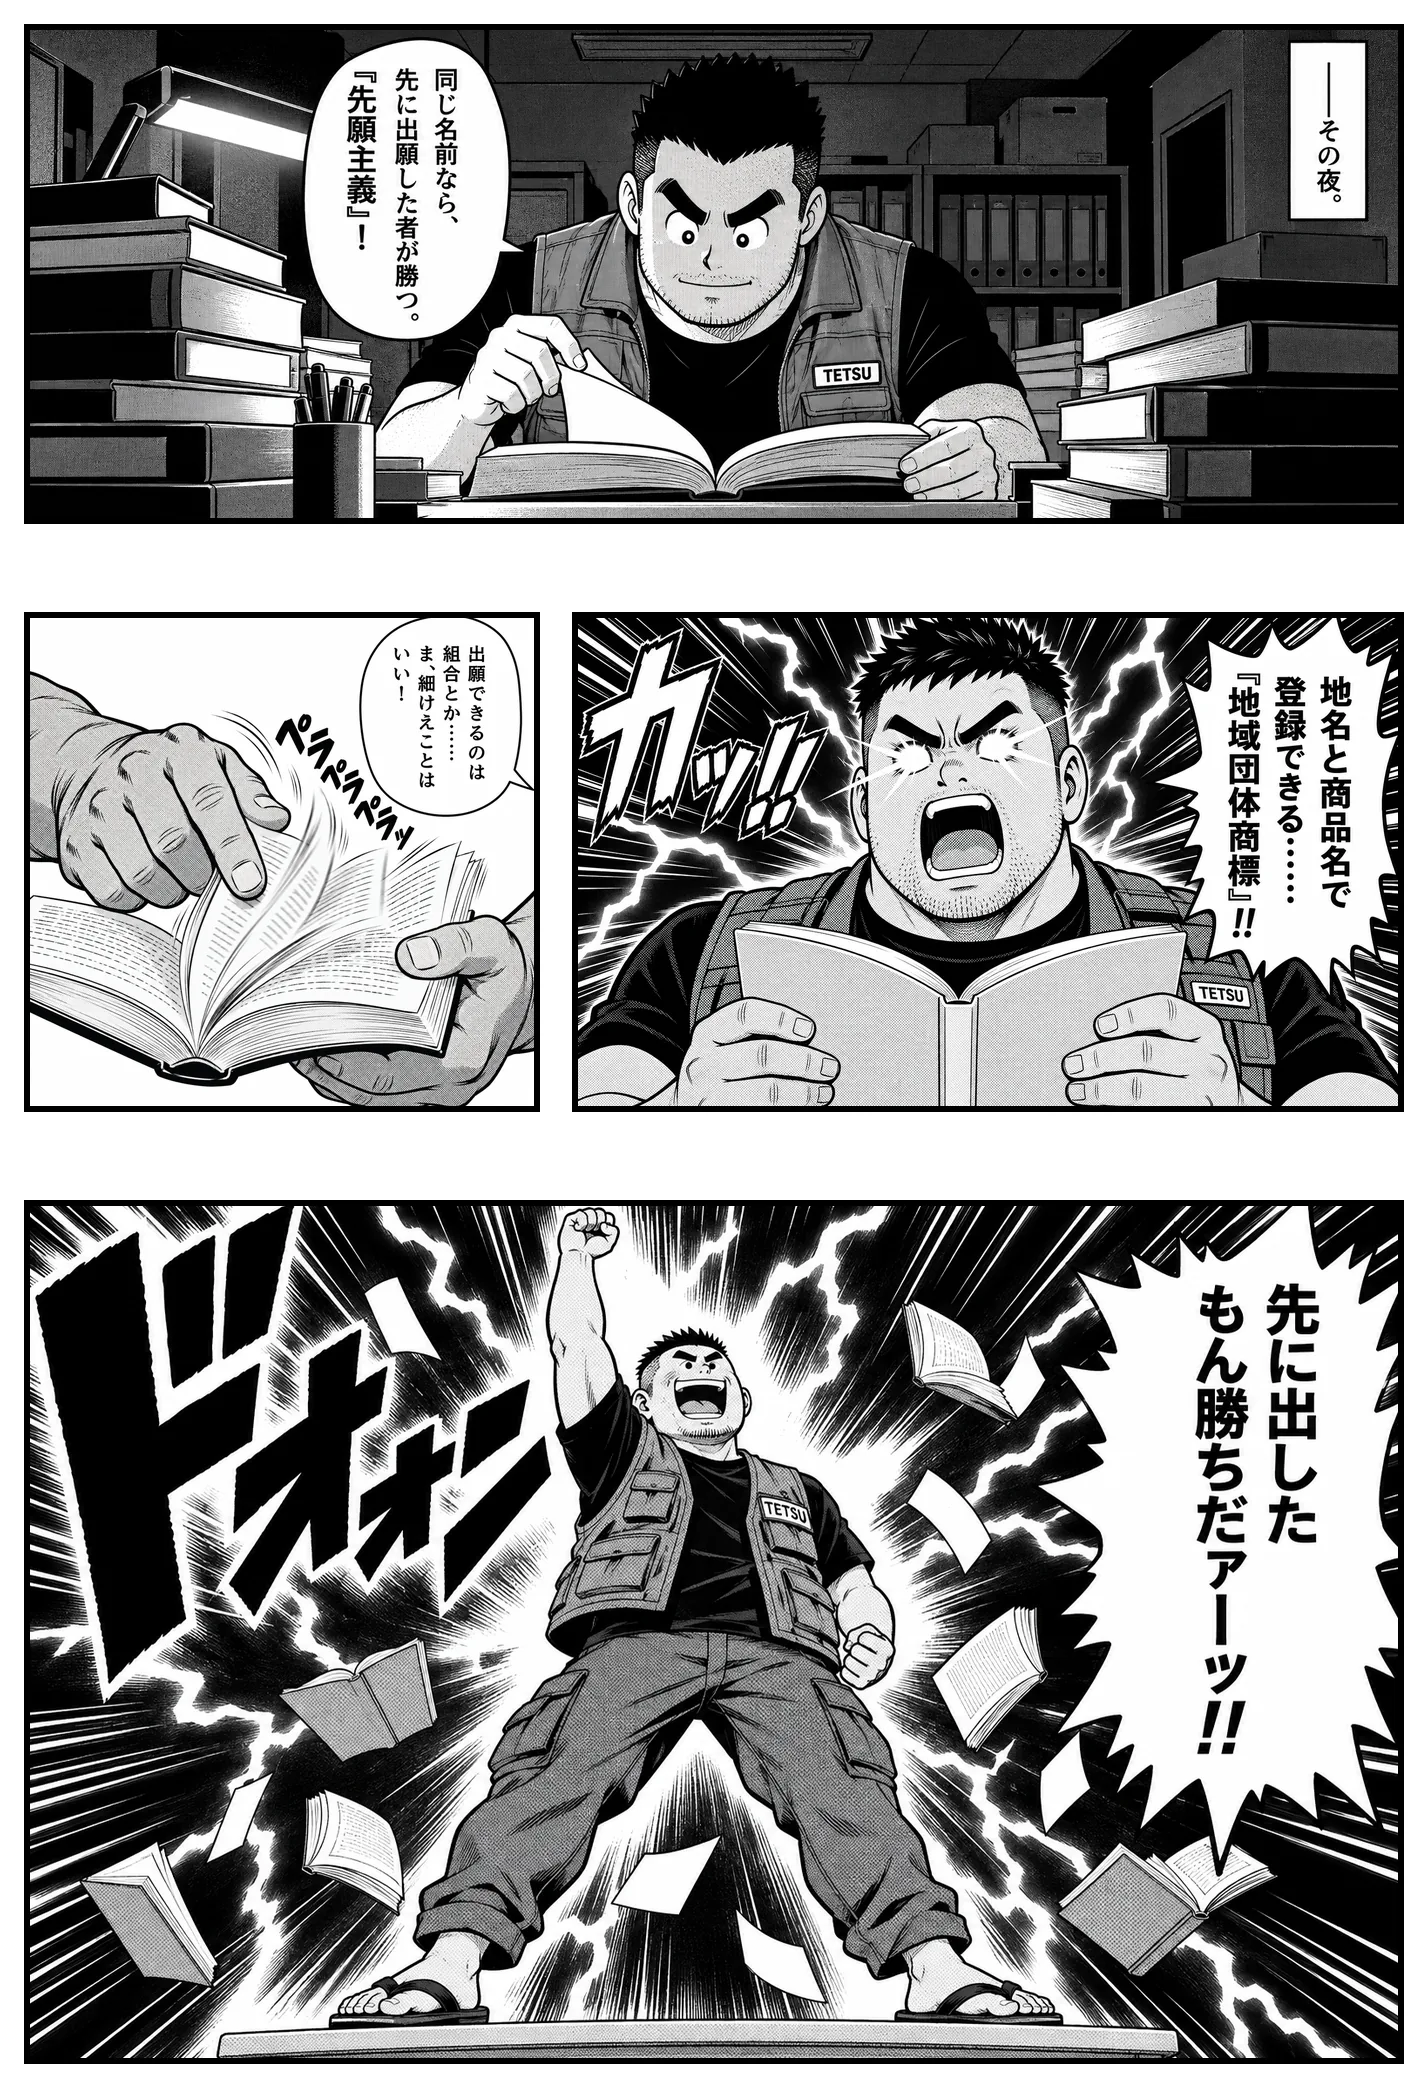
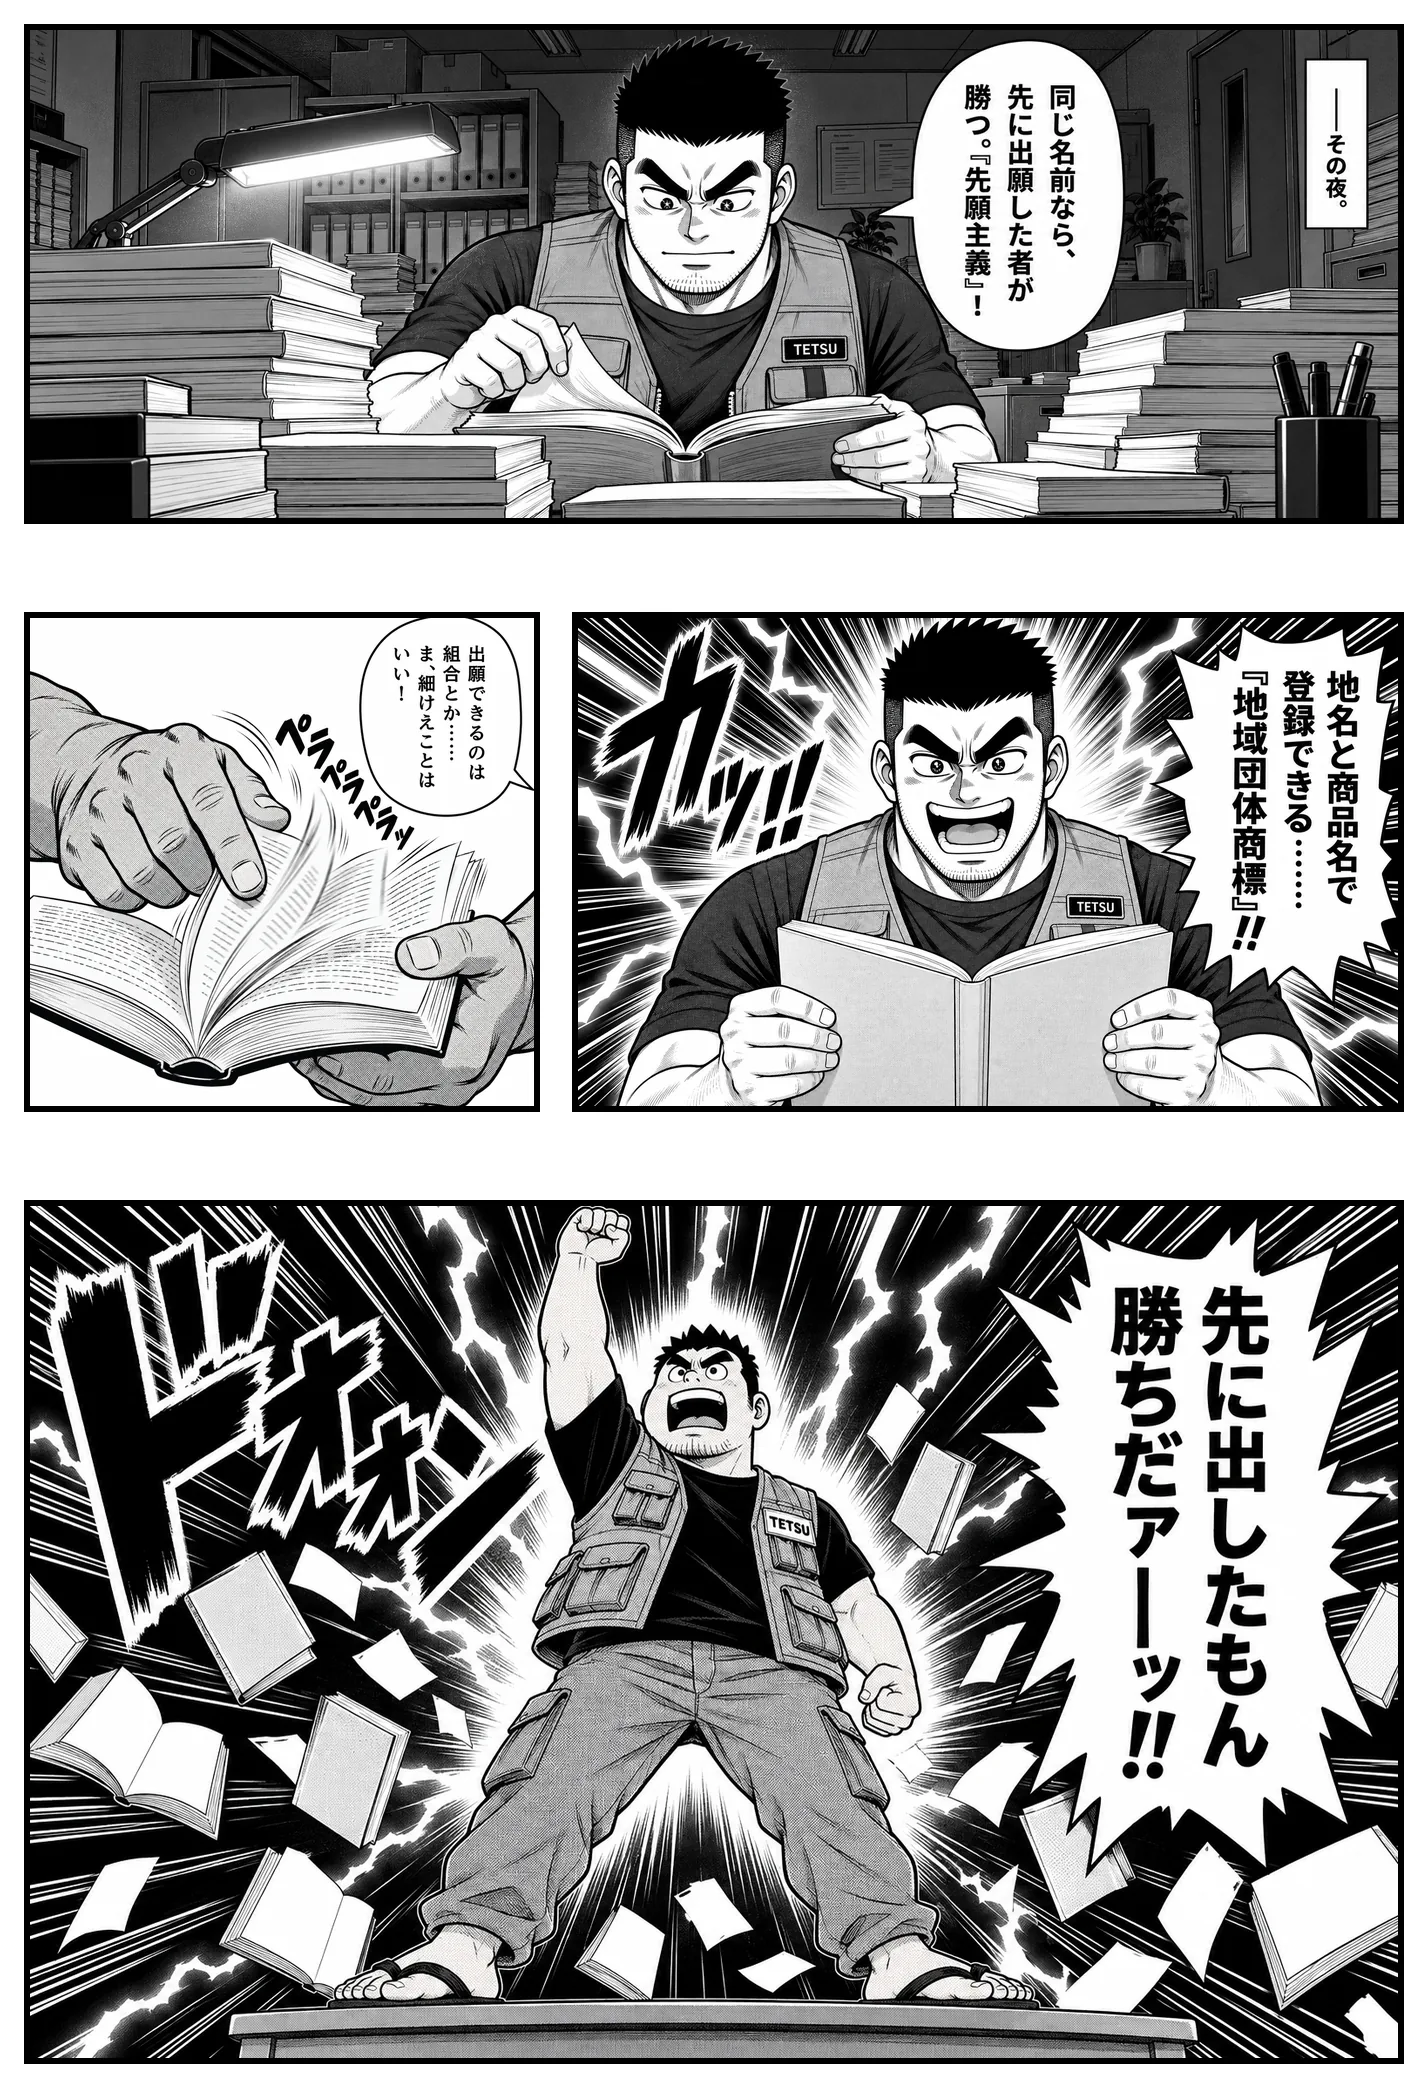
「梨ヶ坂名物、つくります」修正指示v1の21コマを描き直して差し替え
作者から「イラストが違う」と差し戻された21コマを、この話で採用済みのコマから作った
顔の見本を添付して描き直した。ばら寿司の大皿は小さく、ショータのセリフは
「歩合はきちんともらいます」、処刑は決裁印から表彰状（副賞は屋台の皿洗い一年分）へ。

build_pages.py は episodes.json の末尾に改行を残すようにした。

diff --git a/tools/build_pages.py b/tools/build_pages.py
@@ -140,7 +140,9 @@ def main():
     ep['pages'] = files
     ep['sizes'] = [list(img.size) for img in ([cover] if cover else []) + pages]  # 読み込む前に高さを取っておくため
     ep['hasCover'] = bool(args.cover)
-    json.dump(data, open(ep_path, 'w', encoding='utf-8', newline='\n'), ensure_ascii=False, indent=2)
+    with open(ep_path, 'w', encoding='utf-8', newline='\n') as f:
+        json.dump(data, f, ensure_ascii=False, indent=2)
+        f.write('\n')  # 末尾の改行を残す（ないと毎回ここだけ差分になる）
     total = sum(os.path.getsize(os.path.join(pages_dir, f)) for f in files)
     print(f'{len(files)} 枚、合計 {total // 1024} KB。episodes.json を更新しました。')
 
